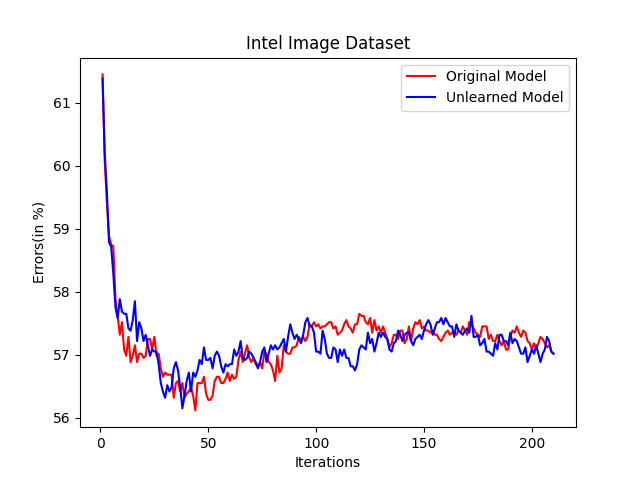
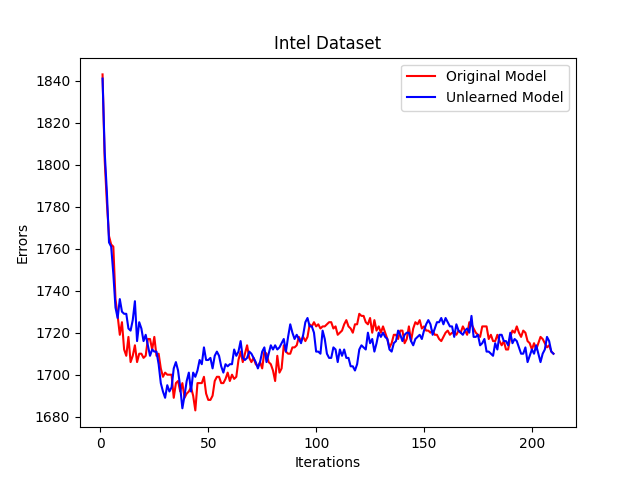
final absolute error graphs

diff --git a/graph.py b/graph.py
@@ -4,146 +4,95 @@ import numpy as np
 import matplotlib.pyplot as plt
 import matplotlib as mpl
 
-# with open('optdigits.test.csv_mart_J20_v0.1.testlog', 'r') as file:
-#     lines = file.readlines()
-# data = [re.split(r'\s+', line.strip()) for line in lines]
-# mart = pd.DataFrame(data)
-# with open('optdigits.test.csv_robustlogit_J20_v0.1.testlog', 'r') as file:
-#     lines = file.readlines()
-# data = [re.split(r'\s+', line.strip()) for line in lines]
-# robustlogit = pd.DataFrame(data)
-# # Errors for both method
-# errors_mart_optdigits=mart[2].to_numpy().astype(int)
-# errors_robustlogit_optdigits=robustlogit[2].to_numpy().astype(int)
-# x_values = np.arange(1, len(errors_mart_optdigits) + 1)
-# # Plot the graph
-# plt.plot(x_values, errors_mart_optdigits,  linestyle='-', color='b', label='MART')
-# plt.plot(x_values, errors_robustlogit_optdigits, linestyle='-', color='r', label='Robust LogitBoost')
-# # Add labels and title
-# plt.xlabel('Iterations')
-# plt.ylabel('Errors')
-# plt.title('Optdigits Dataset')
-# # Add legend
-# plt.legend()
-# # Show the plot
-# plt.savefig('graph_optdigits.png') 
-# plt.close()
+# Coffee Bean dataset
+# Open testlog and unlearnlog files
+with open('./logs/coffee_bean_images_80.test.csv_robustlogit_J20_v0.1.testlog', 'r') as file:
+    lines = file.readlines()
+data = [re.split(r'\s+', line.strip()) for line in lines]
+original_error = pd.DataFrame(data)
+with open('./logs/coffee_bean_images_80.test.csv_robustlogit_J20_v0.1.unlearnlog', 'r') as file:
+    lines = file.readlines()
+data = [re.split(r'\s+', line.strip()) for line in lines]
+unlearn_error = pd.DataFrame(data)
 
+# Errors for both models
+errors_original = original_error[2].to_numpy().astype(int)
+errors_unlearn = unlearn_error[2].to_numpy().astype(int)
+x_values = np.arange(1, len(original_error) + 1)
 
+# Plot the graph for errors in both models
+plt.plot(x_values, errors_original,  linestyle='solid', color='r', label='Original Model')
+plt.plot(x_values, errors_unlearn, linestyle='solid', color='b', label='Unlearned Model')
+plt.xlabel('Iterations')
+plt.ylabel('Errors')
+# Add labels and title
+plt.title('Coffee Bean Dataset')
+# Add legend
+plt.legend()
+# Show the plot
+plt.savefig('graph_coffee_bean.png') 
+plt.close()
 
+# Dog dataset
+# Open testlog and unlearnlog files
+with open('./logs/dog_image_85.test.csv_robustlogit_J20_v0.1.testlog', 'r') as file:
+    lines = file.readlines()
+data = [re.split(r'\s+', line.strip()) for line in lines]
+original_error = pd.DataFrame(data)
+with open('./logs/dog_image_85.test.csv_robustlogit_J20_v0.1.unlearnlog', 'r') as file:
+    lines = file.readlines()
+data = [re.split(r'\s+', line.strip()) for line in lines]
+unlearn_error = pd.DataFrame(data)
 
-# with open('comp_cpu.test.csv_mart_J20_v0.1.testlog', 'r') as file:
-#     lines = file.readlines()
-# data = [re.split(r'\s+', line.strip()) for line in lines]
-# mart = pd.DataFrame(data)
-# with open('comp_cpu.test.csv_robustlogit_J20_v0.1.testlog', 'r') as file:
-#     lines = file.readlines()
-# data = [re.split(r'\s+', line.strip()) for line in lines]
-# robustlogit = pd.DataFrame(data)
-# # Errors for both method
-# errors_mart_comp_cpu=mart[2].to_numpy().astype(int)
-# errors_robustlogit_comp_cpu=robustlogit[2].to_numpy().astype(int)
-# x_values = np.arange(1, len(errors_mart_comp_cpu) + 1)
-# # Plot the graph
-# plt.plot(x_values, errors_mart_comp_cpu,  linestyle='-', color='b', label='MART')
-# plt.plot(x_values, errors_robustlogit_comp_cpu, linestyle='-', color='r', label='Robust LogitBoost')
-# # Add labels and title
-# plt.xlabel('Iterations')
-# plt.ylabel('Errors')
-# plt.title('Comp_CPU Dataset')
-# # Add legend
-# plt.legend()
-# # Show the plot
-# plt.savefig('graph_compcpu.png') 
-# plt.close()
+# Errors for both models
+errors_original = original_error[2].to_numpy().astype(int)
+errors_unlearn = unlearn_error[2].to_numpy().astype(int)
+x_values = np.arange(1, len(original_error) + 1)
 
-# with open('covtype.test.csv_mart_J20_v0.1.testlog', 'r') as file:
-#     lines = file.readlines()
-# data = [re.split(r'\s+', line.strip()) for line in lines]
-# mart = pd.DataFrame(data)
-# with open('covtype.test.csv_robustlogit_J20_v0.1.testlog', 'r') as file:
-#     lines = file.readlines()
-# data = [re.split(r'\s+', line.strip()) for line in lines]
-# robustlogit = pd.DataFrame(data)
-# # Errors for both method
-# errors_mart_covtype=mart[2].to_numpy().astype(int)
-# errors_robustlogit_covtype=robustlogit[2].to_numpy().astype(int)
-# x_values = np.arange(1, len(errors_mart_covtype) + 1)
-# # Plot the graph
-# plt.plot(x_values, errors_mart_covtype,  linestyle='-', color='b', label='MART')
-# plt.plot(x_values, errors_robustlogit_covtype, linestyle='-', color='r', label='Robust LogitBoost')
-# # Add labels and title
-# plt.xlabel('Iterations')
-# plt.ylabel('Errors')
-# plt.title('Covtype Dataset')
-# # Add legend
-# plt.legend()
-# # Show the plot
-# plt.savefig('graph_covtype.png') 
-# plt.close()
+# Plot the graph for errors in both models
+plt.plot(x_values, errors_original,  linestyle='solid', color='r', label='Original Model')
+plt.plot(x_values, errors_unlearn, linestyle='solid', color='b', label='Unlearned Model')
+plt.xlabel('Iterations')
+plt.ylabel('Errors')
+# Add labels and title
+plt.title('Dog Dataset')
+# Add legend
+plt.legend()
+# Show the plot
+plt.savefig('graph_dog.png') 
+plt.close()
 
-# with open('ijcnn1.test.csv_mart_J20_v0.1.testlog', 'r') as file:
-#     lines = file.readlines()
-# data = [re.split(r'\s+', line.strip()) for line in lines]
-# mart = pd.DataFrame(data)
-# with open('ijcnn1.test.csv_robustlogit_J20_v0.1.testlog', 'r') as file:
-#     lines = file.readlines()
-# data = [re.split(r'\s+', line.strip()) for line in lines]
-# robustlogit = pd.DataFrame(data)
-# # Errors for both method
-# errors_mart_ijcnn=mart[2].to_numpy().astype(int)
-# errors_robustlogit_ijcnn=robustlogit[2].to_numpy().astype(int)
-# x_values = np.arange(1, len(errors_mart_ijcnn) + 1)
-# # Plot the graph
-# plt.plot(x_values, errors_mart_ijcnn,  linestyle='-', color='b', label='MART')
-# plt.plot(x_values, errors_robustlogit_ijcnn, linestyle='-', color='r', label='Robust LogitBoost')
-# # Add labels and title
-# plt.xlabel('Iterations')
-# plt.ylabel('Errors')
-# plt.title('IJCNN1 Dataset')
-# # Add legend
-# plt.legend()
-# # Show the plot
-# plt.savefig('graph_ijcnn1.png') 
-# plt.close()
+# Flower dataset
+# Open testlog and unlearnlog files
+with open('./logs/flower_photos_80.test.csv_robustlogit_J20_v0.1.testlog', 'r') as file:
+    lines = file.readlines()
+data = [re.split(r'\s+', line.strip()) for line in lines]
+original_error = pd.DataFrame(data)
+with open('./logs/flower_photos_80.test.csv_robustlogit_J20_v0.1.unlearnlog', 'r') as file:
+    lines = file.readlines()
+data = [re.split(r'\s+', line.strip()) for line in lines]
+unlearn_error = pd.DataFrame(data)
 
+# Errors for both models
+errors_original = original_error[2].to_numpy().astype(int)
+errors_unlearn = unlearn_error[2].to_numpy().astype(int)
+x_values = np.arange(1, len(original_error) + 1)
 
+# Plot the graph for errors in both models
+plt.plot(x_values, errors_original,  linestyle='solid', color='r', label='Original Model')
+plt.plot(x_values, errors_unlearn, linestyle='solid', color='b', label='Unlearned Model')
+plt.xlabel('Iterations')
+plt.ylabel('Errors')
+# Add labels and title
+plt.title('Flower Dataset')
+# Add legend
+plt.legend()
+# Show the plot
+plt.savefig('graph_flower.png') 
+plt.close()
 
-
-
-# with open('pendigits.test.csv_mart_J20_v0.1.testlog', 'r') as file:
-#     lines = file.readlines()
-# data = [re.split(r'\s+', line.strip()) for line in lines]
-# mart = pd.DataFrame(data)
-# with open('pendigits.test.csv_robustlogit_J20_v0.1.testlog', 'r') as file:
-#     lines = file.readlines()
-# data = [re.split(r'\s+', line.strip()) for line in lines]
-# robustlogit = pd.DataFrame(data)
-# # Errors for both method
-# errors_mart_pendigits=mart[2].to_numpy().astype(int)
-# errors_robustlogit_pendigits=robustlogit[2].to_numpy().astype(int)
-# x_values = np.arange(1, len(errors_mart_pendigits) + 1)
-# # Plot the graph
-# plt.plot(x_values, errors_mart_pendigits,  linestyle='-', color='b', label='MART')
-# plt.plot(x_values, errors_robustlogit_pendigits, linestyle='-', color='r', label='Robust LogitBoost')
-# # Add labels and title
-# plt.xlabel('Iterations')
-# plt.ylabel('Errors')
-# plt.title('Pendigits Dataset')
-# # Add legend
-# plt.legend()
-# # Show the plot
-# plt.savefig('graph_pendigits.png') 
-# plt.close()
-
-
-# with open('coffee_bean.test.csv_mart_J20_v0.1.testlog', 'r') as file:
-#     lines = file.readlines()
-# data = [re.split(r'\s+', line.strip()) for line in lines]
-# mart = pd.DataFrame(data)
-
-# Intel image dataset
-mismatch = 0
+# Intel dataset
+# Open testlog and unlearnlog files
 with open('./logs/intel_image_80.test.csv_robustlogit_J20_v0.1.testlog', 'r') as file:
     lines = file.readlines()
 data = [re.split(r'\s+', line.strip()) for line in lines]
@@ -152,73 +101,50 @@ with open('./logs/intel_image_80.test.csv_robustlogit_J20_v0.1.unlearnlog', 'r')
     lines = file.readlines()
 data = [re.split(r'\s+', line.strip()) for line in lines]
 unlearn_error = pd.DataFrame(data)
-test_data = pd.read_csv('./data/intel_image_80.test.csv')
-# print(len(test_data.index))
 
-# # Errors for both models
-errors_original = original_error[2].to_numpy().astype(int) / len(test_data.index) * 100
-errors_unlearn = unlearn_error[2].to_numpy().astype(int) / len(test_data.index) * 100
+# Errors for both models
+errors_original = original_error[2].to_numpy().astype(int)
+errors_unlearn = unlearn_error[2].to_numpy().astype(int)
 x_values = np.arange(1, len(original_error) + 1)
 
 # Plot the graph for errors in both models
 plt.plot(x_values, errors_original,  linestyle='solid', color='r', label='Original Model')
 plt.plot(x_values, errors_unlearn, linestyle='solid', color='b', label='Unlearned Model')
 plt.xlabel('Iterations')
-plt.ylabel('Errors(in %)')
+plt.ylabel('Errors')
 # Add labels and title
-plt.title('Intel Image Dataset')
+plt.title('Intel Dataset')
 # Add legend
 plt.legend()
 # Show the plot
 plt.savefig('graph_intel.png') 
 plt.close()
 
-# # Plot the graph for difference
-# plt.plot(x_values, errors_robustlogit_coffee - errors_robustlogit_coffee_ul, linestyle='dashed', color='r', label='Difference between Original and Unlearned Model Prediction')
-# plt.xlabel('Iterations')
-# plt.ylabel('Prediction difference')
-# # Add labels and title
-# plt.title('Intel Image Dataset (Prediction differences for both models)')
-# # Add legend
-# plt.legend()
-# # Show the plot
-# plt.savefig('graph_intel_diff.png')
-# plt.close()
+# Vehicle dataset
+# Open testlog and unlearnlog files
+with open('./logs/vehicle_image_72.test.csv_robustlogit_J20_v0.1.testlog', 'r') as file:
+    lines = file.readlines()
+data = [re.split(r'\s+', line.strip()) for line in lines]
+original_error = pd.DataFrame(data)
+with open('./logs/vehicle_image_72.test.csv_robustlogit_J20_v0.1.unlearnlog', 'r') as file:
+    lines = file.readlines()
+data = [re.split(r'\s+', line.strip()) for line in lines]
+unlearn_error = pd.DataFrame(data)
 
+# Errors for both models
+errors_original = original_error[2].to_numpy().astype(int)
+errors_unlearn = unlearn_error[2].to_numpy().astype(int)
+x_values = np.arange(1, len(original_error) + 1)
 
-
-
-
-# #MART
-# plt.plot(x_values, errors_mart_pendigits,  linestyle='-', color='b', label='Pendigits')
-# # plt.plot(x_values, errors_mart_comp_cpu, linestyle='-', color='r', label='Comp_CPU')
-# plt.plot(x_values, errors_mart_covtype,  linestyle='-', color='g', label='Covtype')
-# plt.plot(x_values, errors_mart_optdigits, linestyle='-', color='y', label='Optdigits')
-# plt.plot(x_values, errors_mart_ijcnn,  linestyle='-', color='m', label='IJCNN')
-# plt.plot(x_values, errors_mart_coffee,  linestyle='-', color='r', label='Coffee Bean')
-# # Add labels and title
-# plt.xlabel('Iterations')
-# plt.ylabel('Errors')
-# plt.title('MART Across different Datasets')
-# # Add legend
-# plt.legend()
-# # Show the plot
-# plt.savefig('graph_mart.png') 
-# plt.close()
-
-# #ROBUST
-# plt.plot(x_values, errors_robustlogit_pendigits,  linestyle='-', color='b', label='Pendigits')
-# # plt.plot(x_values, errors_robustlogit_comp_cpu, linestyle='-', color='r', label='Comp_CPU')
-# plt.plot(x_values, errors_robustlogit_covtype,  linestyle='-', color='g', label='Covtype')
-# plt.plot(x_values, errors_robustlogit_optdigits, linestyle='-', color='y', label='Optdigits')
-# plt.plot(x_values, errors_robustlogit_ijcnn,  linestyle='-', color='m', label='IJCNN')
-# plt.plot(x_values, errors_robustlogit_coffee, linestyle='-', color='r', label='Coffee Bean')
-# # Add labels and title
-# plt.xlabel('Iterations')
-# plt.ylabel('Errors')
-# plt.title('Robust LogitBoost Across different Datasets')
-# # Add legend
-# plt.legend()
-# # Show the plot
-# plt.savefig('graph_robustlogit.png') 
-# plt.close()
+# Plot the graph for errors in both models
+plt.plot(x_values, errors_original,  linestyle='solid', color='r', label='Original Model')
+plt.plot(x_values, errors_unlearn, linestyle='solid', color='b', label='Unlearned Model')
+plt.xlabel('Iterations')
+plt.ylabel('Errors')
+# Add labels and title
+plt.title('Vehicle Dataset')
+# Add legend
+plt.legend()
+# Show the plot
+plt.savefig('graph_vehicle.png') 
+plt.close()
